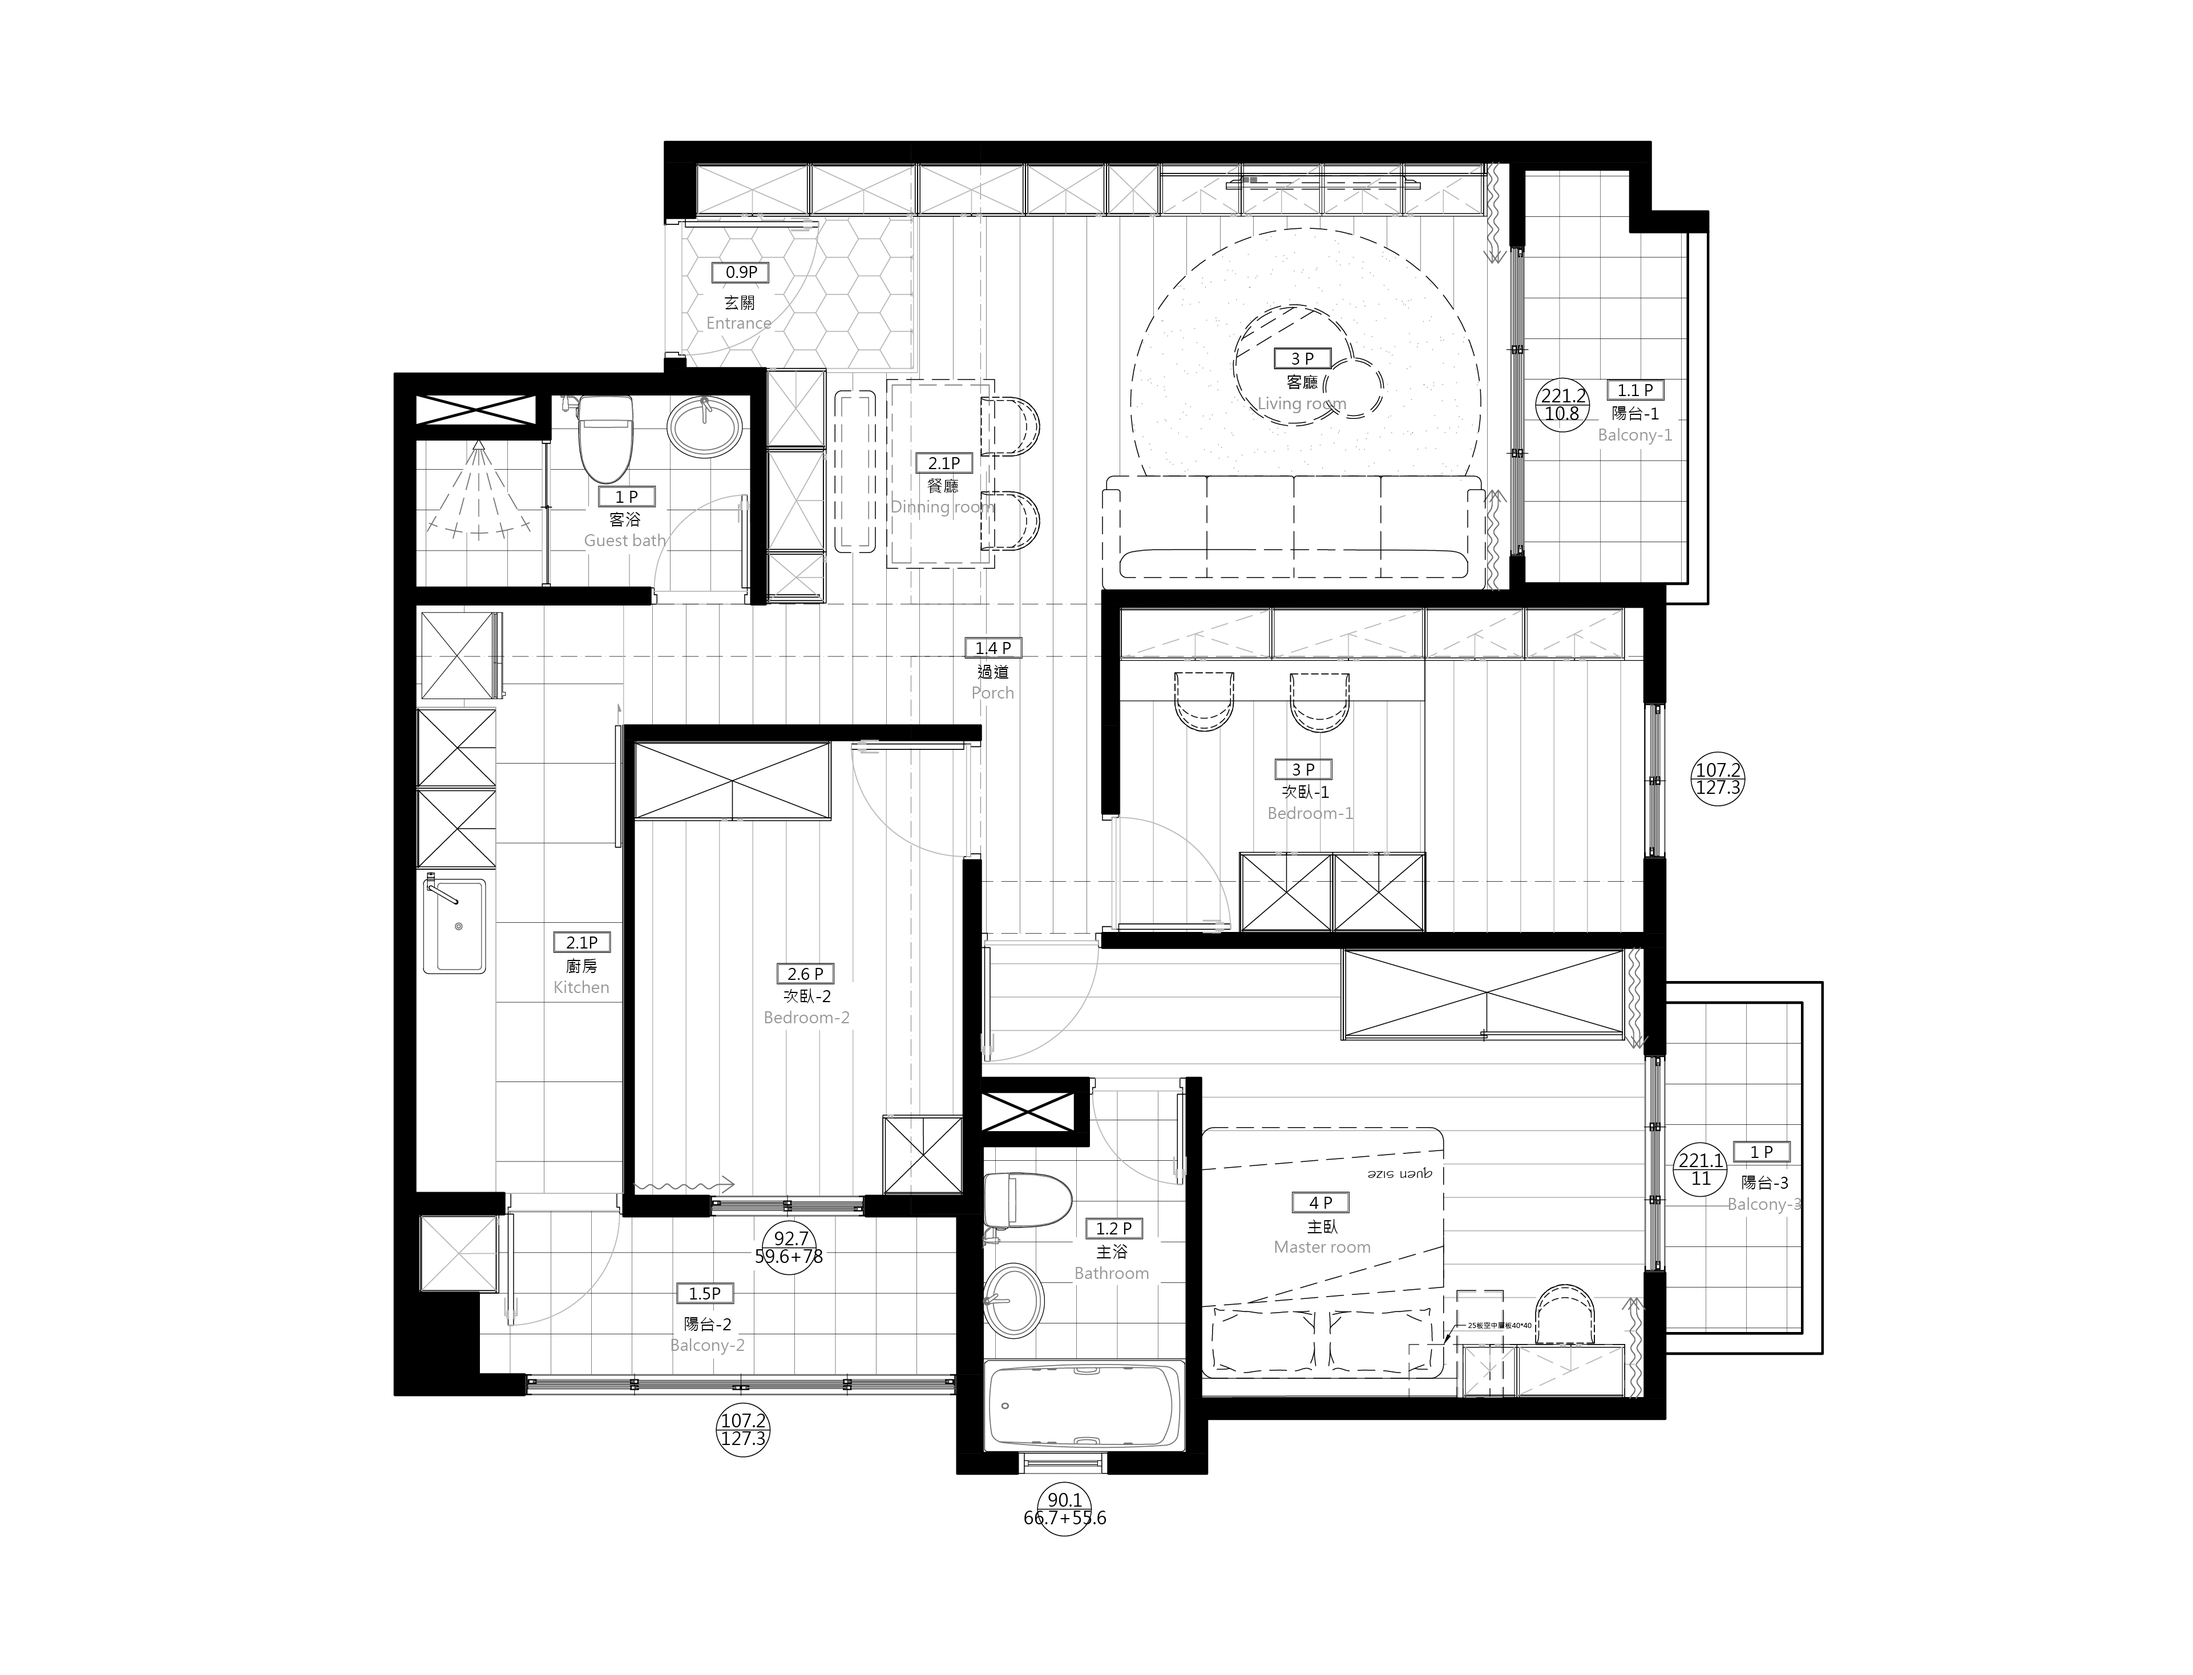
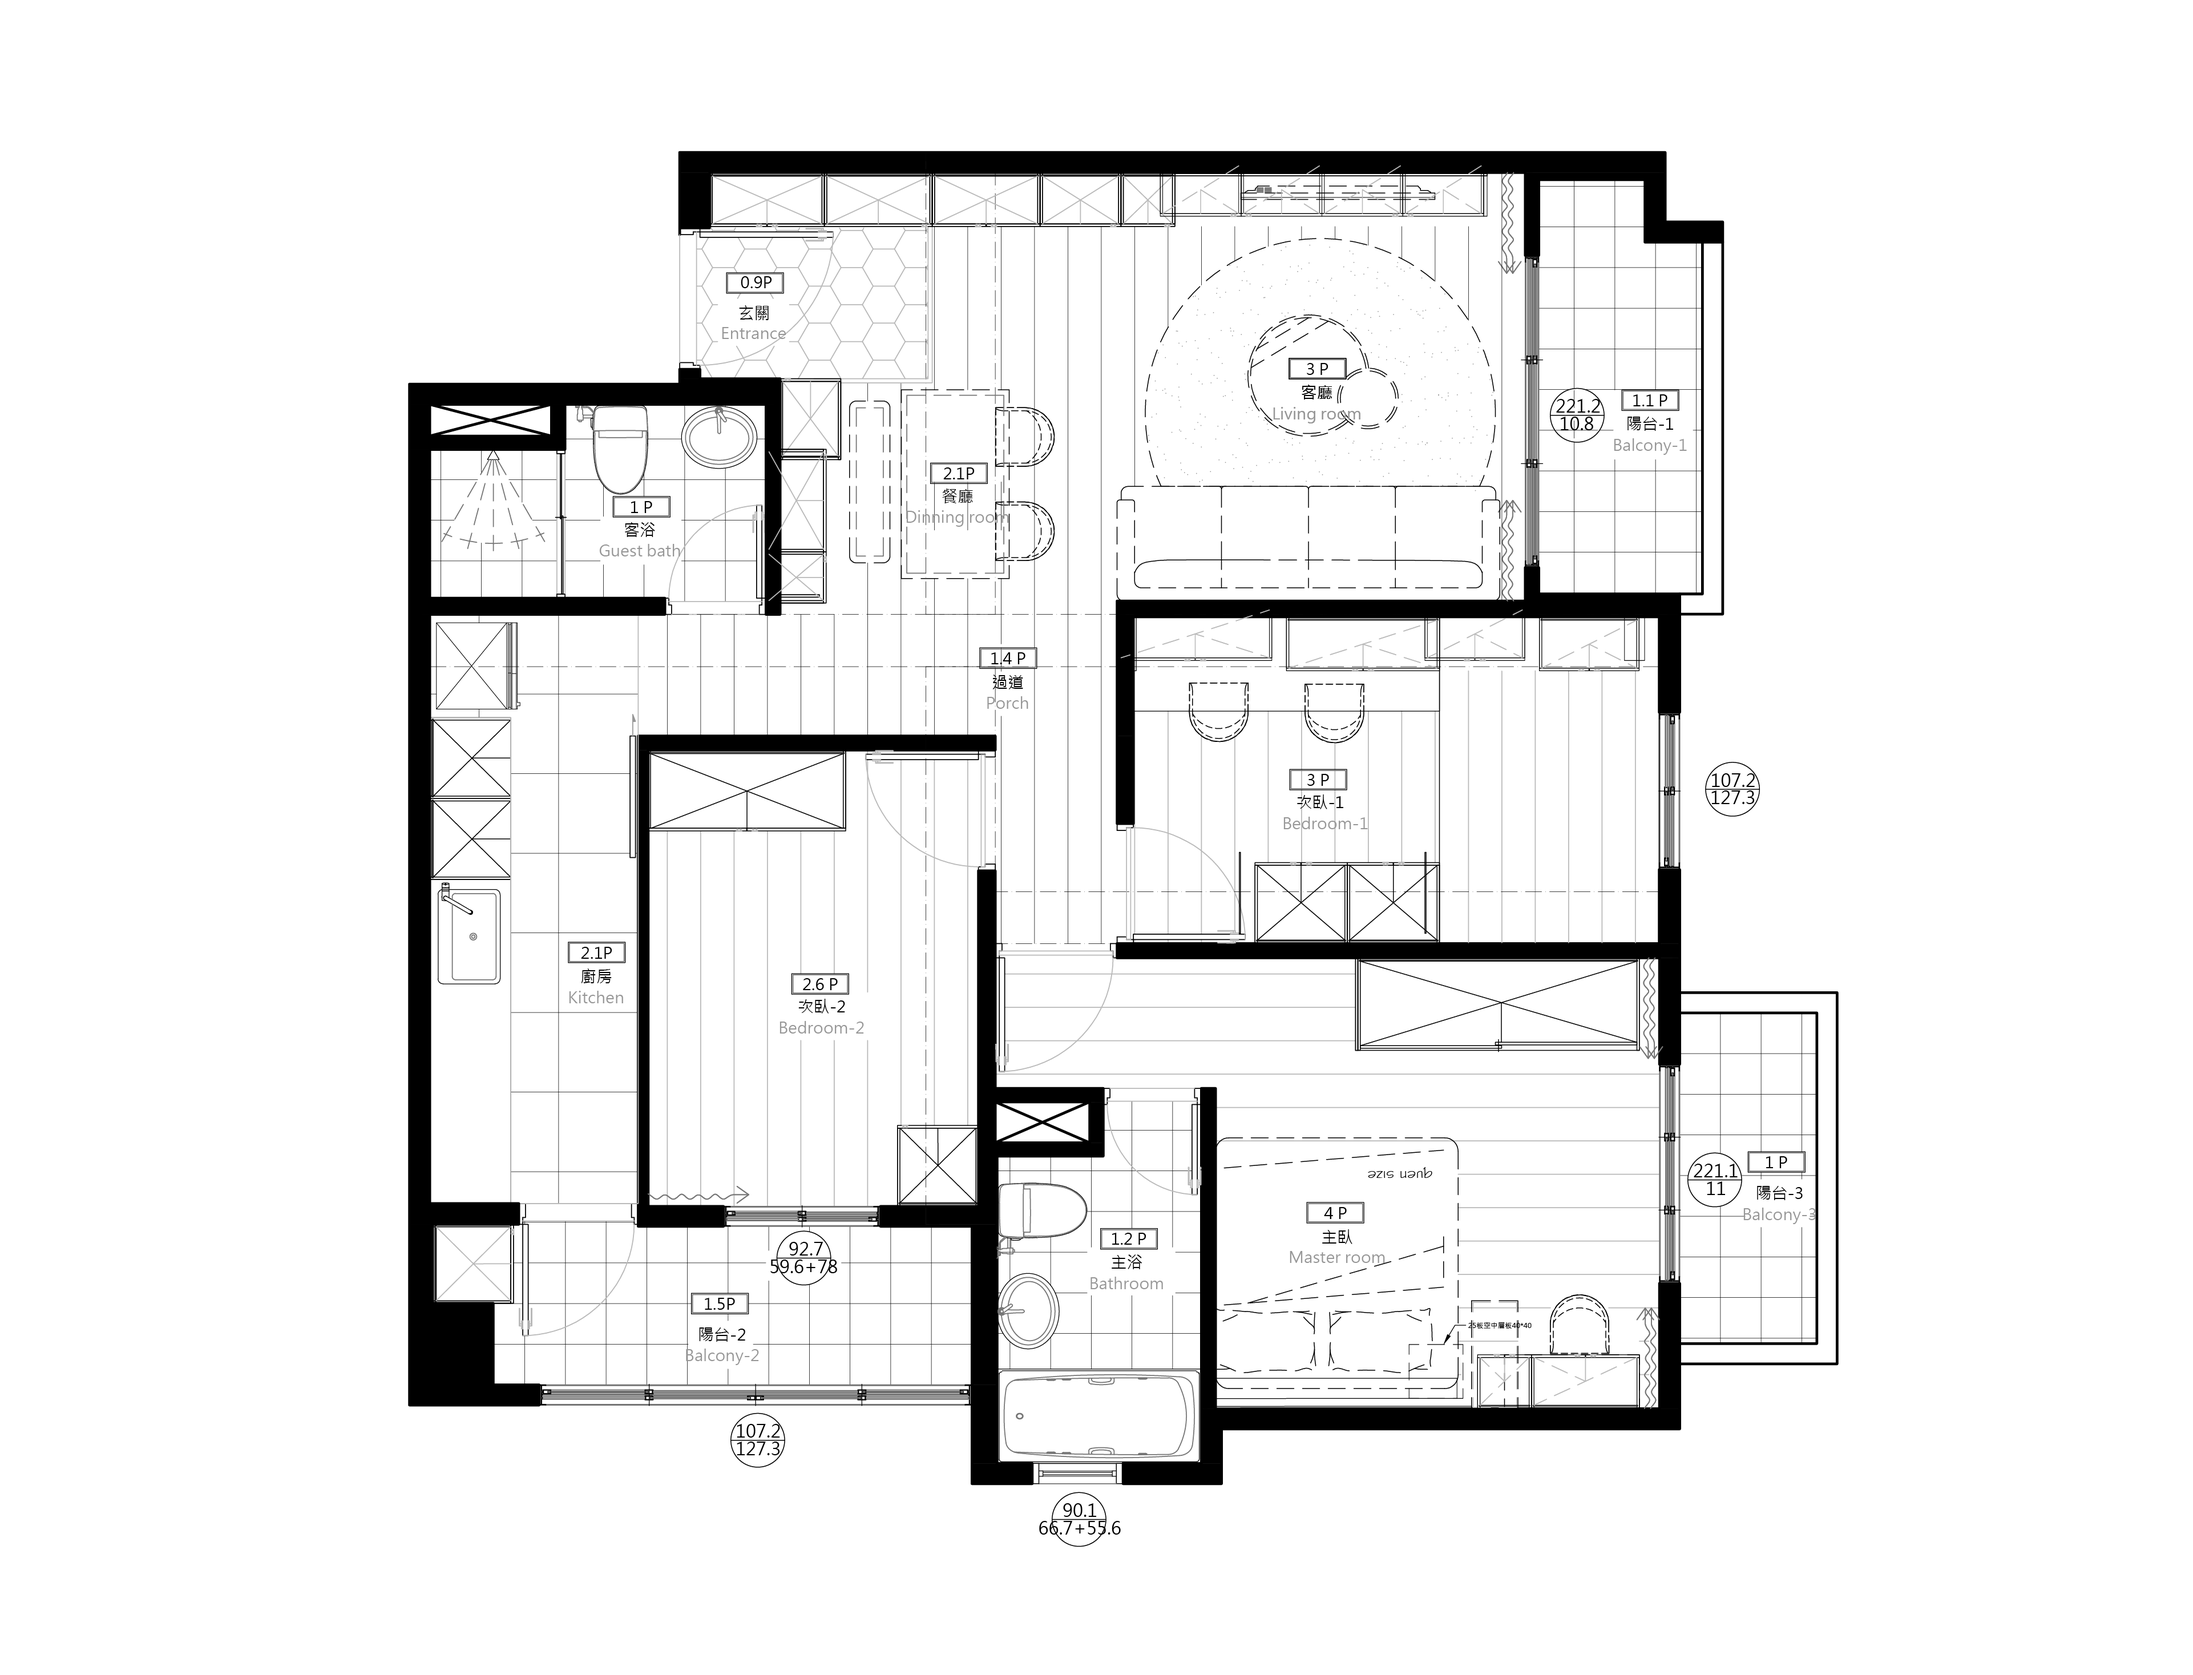
晨光靜語

diff --git a/index.html b/index.html
@@ -247,7 +247,7 @@
             <div class="project-card" data-size="s-35-50" data-budget="b-200-400" data-style="japanese nordic" data-aos="zoom-in" data-aos-delay="200" data-aos-duration="800">
               <a href="Work/detail/themis-Zhubei-L.html">
                 <img src="images/ThemisWeb/L/L01.jpg" class="img-fluid" alt="作品3">
-                <div class="project-info">竹北L宅 × 暖木風</div>
+                <div class="project-info">晨光靜語</div>
               </a>
             </div>
           </div>

diff --git a/Work/detail/themis-Zhubei-L.html b/Work/detail/themis-Zhubei-L.html
@@ -3,7 +3,7 @@
   <head>
     <meta charset="UTF-8">
     <meta name="viewport" content="width=device-width, initial-scale=1.0">
-    <title>竹北L宅｜同翕設計｜台北室內設計裝修｜Themis interior design</title>
+    <title>晨光靜語｜同翕設計｜台北室內設計裝修｜Themis interior design</title>
     <link rel="icon" href="../images/logo/LOGO.png" type="image/png" />
     <link href="https://cdn.jsdelivr.net/npm/bootstrap@5.3.3/dist/css/bootstrap.min.css" rel="stylesheet">
     <style>
